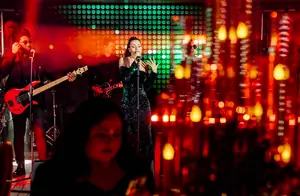
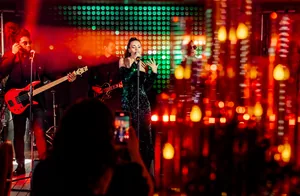
Replace remaining concert photo copies with guest filming version

diff --git a/.eleventy.js b/.eleventy.js
@@ -55,6 +55,8 @@ export default function (eleventyConfig) {
 			return video ? `assets/video/mp4/${video.family}-${quality}.mp4` : url;
 		});
 		content = content.replace(/assets\/photos\/wall\/costumes--[a-z0-9-]+-(300|520)\.webp(?!\?)/g, '$&?v=20261014canon');
+		// Refresh only the old concert photo and its responsive wall crops.
+		content = content.replace(/assets\/photos\/(?:concert-light\.jpg|wall\/photos--concert-light-(?:300|520)\.webp)(?:\?v=[a-z0-9]+)?/g, (url) => `${url.split('?')[0]}?v=20261030filming`);
 		content = content.replace('</head>', `<link rel="stylesheet" href="${pathPrefix}video-share.css?v=2"><script src="${pathPrefix}locale.js?v=1" defer></script><script src="${pathPrefix}video-quality.js?v=4" defer></script></head>`);
 		if (this.page.url === '/embed/') return content.replace('</head>', `<script src="${pathPrefix}promo-media.js?v=20261030perfect" defer></script></head>`);
 		return content.replace(/live-icon-(720|1080)\.mp4(?!\?)/g, 'live-icon-$1.mp4?v=20261002cut6')
